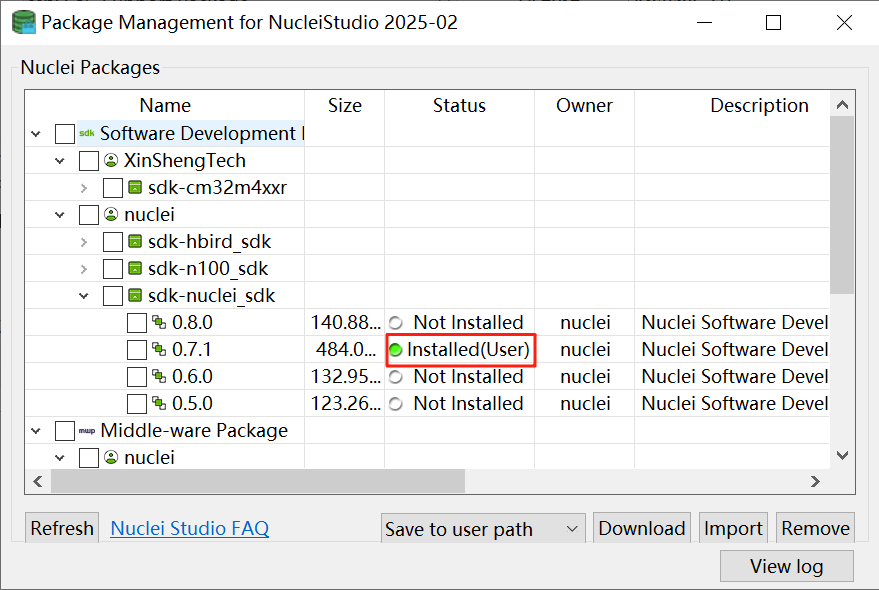
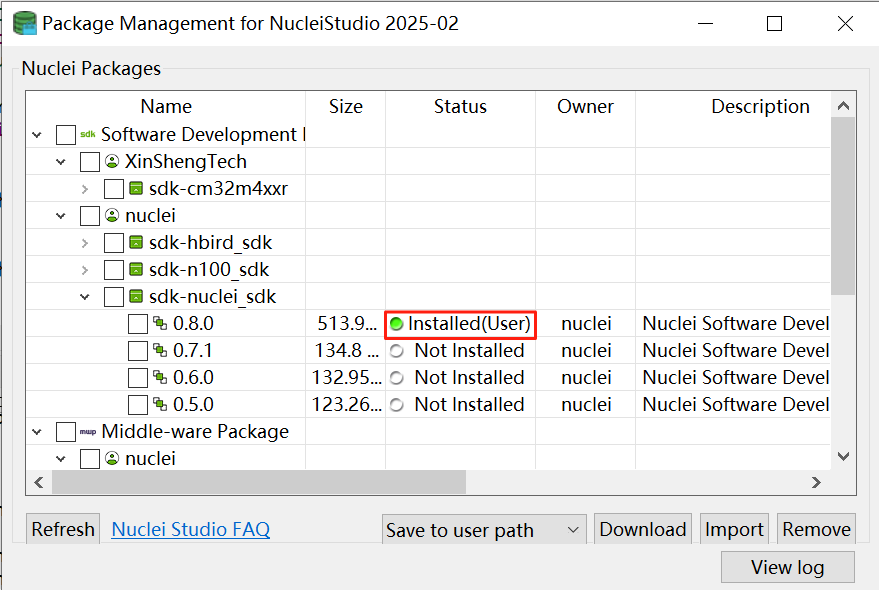
change image and demo

diff --git a/source/ide/npk.rst b/source/ide/npk.rst
@@ -69,7 +69,7 @@ NPK软件包管理
 下载云端NPK软件包
 ~~~~~~~~~~~~~~~~~
 
-在Nuclei Studio中最大的更新，就是将npk云端化，用户直接在Nuclei Studio中就可以下查看到所有的npk并自行安装，在菜单栏选择 ``RV-Tools-->Nuclei Package Management`` 在弹出的**Nuclei Package Management**管理页进行npk管理。
+在Nuclei Studio中最大的更新，就是将npk云端化，用户直接在Nuclei Studio中就可以下查看到所有的npk并自行安装，在菜单栏选择 ``RV-Tools-->Nuclei Package Management`` 在弹出的 **Nuclei Package Management** 管理页进行npk管理。
 
 |image1|
 
@@ -77,7 +77,7 @@ NPK软件包管理
 
 |image2|
 
-然后选中自己想要安装的npk,点击Download进行安装，本教程安装sdk-nuclei_sdk的0.7.1版本，最新版本为0.8.0，请使用最新版本的NucleiStudio进行安装，最新版本支持gcc13工具链，之前版本支持的是gcc10。
+然后选中自己想要安装的npk,点击Download进行安装，本教程安装sdk-nuclei_sdk的0.8.0版本，请使用最新版本的NucleiStudio进行安装，最新版本支持gcc14工具链，之前的版本有支持gcc13/gcc10。
 
 |image3|
 
@@ -85,7 +85,7 @@ NPK软件包管理
 
 |image4|
 
-在NucleiStudio 2024.06版本中，升级了Nuclei Package Management管理页中关于依赖的管理，大大简化了使用者关于NPK包依赖的问题。
+在NucleiStudio 2024.06及后续的版本中，升级了Nuclei Package Management管理页中关于依赖的管理，大大简化了使用者关于NPK包依赖的问题。
 
 |image5|
 
